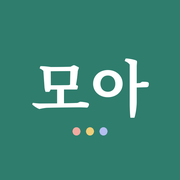
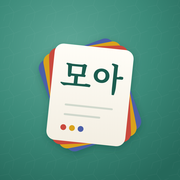
自動チェック・追加単語の昇格・新アイコンを追加
- GitHub Actions でデータを検査し、通ったときだけ Pages に公開
- data/words.js に EXTRA（昇格した追加単語）を追加し、今の追加単語88語を移行
- 記録タブに「追加した単語をデータ用に書き出す」を追加
- 単語カードをモチーフにした新しいアイコン
- service worker を v3 に更新

Claude-Session: https://claude.ai/code/session_01H1yfkYQwmye8AGcc3ry9Gd

diff --git a/data/words.js b/data/words.js
@@ -1104,3 +1104,98 @@ const MULTI = {
   "지원하다":[["취업을 지원하다","就職を支援する"],["회사에 지원하다","会社に応募する"]],
   "과정":[["성장 과정","成長の過程"],["석사 과정","修士課程"]]
 };
+
+// 追加単語（アプリの「単語を追加」で足した単語を、どの端末でも使えるようにここへ移したもの）
+// 1語 = {k:韓国語, j:意味, ex:例文, exj:例文の訳, group:出典, pos:品詞, chunk:セットで覚える形}
+//   group が "過去問①" なら頻出B、"TOPIK中級" なら中級として出題されます。
+// 足すとき：記録タブ →「追加した単語をデータ用に書き出す」で出た行を、最後の ]; の前に貼りつけます。
+const EXTRA = [
+{"k":"식히다","j":"冷ます","ex":"국이 뜨거우니까 좀 식혀서 드세요.","exj":"スープが熱いので少し冷ましてから召し上がってください。","note":"発音は[시키다]。시키다（させる・注文する）と耳では同じに聞こえる。"},
+{"k":"겪다","j":"経験する・（困難を）経る","ex":"많은 사람들이 이사 후에 어려움을 겪는다.","exj":"多くの人が引っ越しのあと苦労を経験する。","group":"TOPIK中級","pos":"v","chunk":"어려움을 겪다＝苦労する"},
+{"k":"늘어나다","j":"増える","ex":"한국을 찾는 외국인 관광객이 늘어나고 있다.","exj":"韓国を訪れる外国人観光客が増えている。","group":"TOPIK中級","pos":"v"},
+{"k":"줄어들다","j":"減る","ex":"아이를 낳는 사람이 점점 줄어들고 있다.","exj":"子どもを産む人がだんだん減っている。","group":"TOPIK中級","pos":"v"},
+{"k":"증가하다","j":"増加する","ex":"혼자 사는 사람이 크게 증가했다.","exj":"一人暮らしの人が大きく増加した。","group":"TOPIK中級","pos":"v"},
+{"k":"감소하다","j":"減少する","ex":"작년보다 쌀 소비량이 감소했다.","exj":"去年より米の消費量が減少した。","group":"TOPIK中級","pos":"v"},
+{"k":"차지하다","j":"占める","ex":"20대가 전체 응답자의 절반을 차지했다.","exj":"20代が回答者全体の半分を占めた。","group":"TOPIK中級","pos":"v","chunk":"절반을 차지하다＝半分を占める"},
+{"k":"해결하다","j":"解決する","ex":"대화로 문제를 해결하는 것이 좋다.","exj":"話し合いで問題を解決するのがよい。","group":"TOPIK中級","pos":"v","chunk":"문제를 해결하다＝問題を解決する"},
+{"k":"극복하다","j":"克服する","ex":"그는 어려운 상황을 잘 극복했다.","exj":"彼は難しい状況をうまく克服した。","group":"TOPIK中級","pos":"v"},
+{"k":"유지하다","j":"維持する・保つ","ex":"건강을 유지하려면 꾸준히 운동해야 한다.","exj":"健康を保つには地道に運動しなければならない。","group":"TOPIK中級","pos":"v","chunk":"건강을 유지하다＝健康を保つ"},
+{"k":"발생하다","j":"発生する・起こる","ex":"겨울에는 화재가 자주 발생한다.","exj":"冬は火事がよく起こる。","group":"TOPIK中級","pos":"v"},
+{"k":"개선하다","j":"改善する","ex":"회사는 근무 환경을 개선하기로 했다.","exj":"会社は職場環境を改善することにした。","group":"TOPIK中級","pos":"v"},
+{"k":"확인하다","j":"確認する","ex":"출발하기 전에 일정을 다시 확인했다.","exj":"出発する前に日程をもう一度確認した。","group":"TOPIK中級","pos":"v"},
+{"k":"제공하다","j":"提供する","ex":"이 호텔은 무료로 아침 식사를 제공한다.","exj":"このホテルは無料で朝食を提供する。","group":"TOPIK中級","pos":"v"},
+{"k":"참여하다","j":"参加する","ex":"많은 시민이 이번 행사에 참여했다.","exj":"多くの市民が今回のイベントに参加した。","group":"TOPIK中級","pos":"v","chunk":"행사에 참여하다＝イベントに参加する"},
+{"k":"미치다","j":"（影響を）及ぼす","ex":"수면 시간은 건강에 큰 영향을 미친다.","exj":"睡眠時間は健康に大きな影響を及ぼす。","group":"TOPIK中級","pos":"v","chunk":"영향을 미치다＝影響を及ぼす"},
+{"k":"노력하다","j":"努力する","ex":"꿈을 이루기 위해 매일 노력한다.","exj":"夢をかなえるために毎日努力する。","group":"TOPIK中級","pos":"v"},
+{"k":"줄이다","j":"減らす","ex":"쓰레기를 줄이기 위해 장바구니를 사용한다.","exj":"ゴミを減らすためにエコバッグを使う。","group":"TOPIK中級","pos":"v"},
+{"k":"늘리다","j":"増やす","ex":"정부는 일자리를 늘리기로 했다.","exj":"政府は働き口を増やすことにした。","group":"TOPIK中級","pos":"v"},
+{"k":"고민하다","j":"悩む","ex":"진로 문제로 오랫동안 고민했다.","exj":"進路のことで長い間悩んだ。","group":"TOPIK中級","pos":"v"},
+{"k":"실천하다","j":"実践する","ex":"계획을 세우는 것보다 실천하는 것이 더 어렵다.","exj":"計画を立てるより実践するほうが難しい。","group":"TOPIK中級","pos":"v"},
+{"k":"인정하다","j":"認める","ex":"그는 자신의 실수를 솔직하게 인정했다.","exj":"彼は自分のミスを素直に認めた。","group":"TOPIK中級","pos":"v","chunk":"실수를 인정하다＝ミスを認める"},
+{"k":"비교하다","j":"比べる・比較する","ex":"다른 사람과 자신을 비교하지 않는 것이 좋다.","exj":"他人と自分を比べないほうがいい。","group":"TOPIK中級","pos":"v"},
+{"k":"선택하다","j":"選ぶ・選択する","ex":"여러 가지 방법 중에서 하나를 선택해야 한다.","exj":"いくつかの方法の中から一つを選ばなければならない。","group":"TOPIK中級","pos":"v"},
+{"k":"적응하다","j":"適応する・慣れる","ex":"새로운 환경에 적응하는 데 시간이 걸린다.","exj":"新しい環境に慣れるのに時間がかかる。","group":"TOPIK中級","pos":"v","chunk":"환경에 적응하다＝環境に慣れる"},
+{"k":"기대하다","j":"期待する","ex":"많은 사람들이 이번 축제를 기대하고 있다.","exj":"多くの人が今回の祭りを楽しみにしている。","group":"TOPIK中級","pos":"v"},
+{"k":"다양하다","j":"多様だ・さまざまだ","ex":"이 시장에서는 다양한 물건을 판다.","exj":"この市場ではさまざまな物を売っている。","group":"TOPIK中級","pos":"a"},
+{"k":"필요하다","j":"必要だ","ex":"외국어를 배우려면 꾸준한 연습이 필요하다.","exj":"外国語を学ぶには地道な練習が必要だ。","group":"TOPIK中級","pos":"a"},
+{"k":"중요하다","j":"重要だ・大切だ","ex":"건강을 위해서는 충분한 수면이 중요하다.","exj":"健康のためには十分な睡眠が大切だ。","group":"TOPIK中級","pos":"a"},
+{"k":"편리하다","j":"便利だ","ex":"지하철은 빠르고 편리하다.","exj":"地下鉄は速くて便利だ。","group":"TOPIK中級","pos":"a"},
+{"k":"불편하다","j":"不便だ","ex":"이 동네는 교통이 좀 불편하다.","exj":"この町は交通が少し不便だ。","group":"TOPIK中級","pos":"a"},
+{"k":"충분하다","j":"十分だ","ex":"시간이 충분하니까 천천히 하세요.","exj":"時間は十分あるのでゆっくりやってください。","group":"TOPIK中級","pos":"a"},
+{"k":"부족하다","j":"足りない・不足している","ex":"요즘 잠이 부족해서 피곤하다.","exj":"最近寝不足で疲れている。","group":"TOPIK中級","pos":"a","chunk":"잠이 부족하다＝寝不足だ"},
+{"k":"심각하다","j":"深刻だ","ex":"환경 오염 문제가 점점 심각해지고 있다.","exj":"環境汚染の問題がだんだん深刻になっている。","group":"TOPIK中級","pos":"a"},
+{"k":"적절하다","j":"適切だ","ex":"상황에 맞는 적절한 표현을 사용해야 한다.","exj":"状況に合った適切な表現を使わなければならない。","group":"TOPIK中級","pos":"a"},
+{"k":"익숙하다","j":"慣れている・なじんでいる","ex":"이제 한국 생활에 익숙해졌다.","exj":"もう韓国の生活に慣れた。","group":"TOPIK中級","pos":"a","chunk":"익숙해지다＝慣れる"},
+{"k":"환경","j":"環境","ex":"아이들은 좋은 환경에서 자라야 한다.","exj":"子どもたちはよい環境で育つべきだ。","group":"TOPIK中級","pos":"n"},
+{"k":"원인","j":"原因","ex":"사고의 원인을 아직 모른다.","exj":"事故の原因はまだわからない。","group":"TOPIK中級","pos":"n"},
+{"k":"결과","j":"結果","ex":"조사 결과에 따르면 커피를 마시는 사람이 늘었다.","exj":"調査結果によると、コーヒーを飲む人が増えた。","group":"TOPIK中級","pos":"n","chunk":"조사 결과에 따르면＝調査結果によると"},
+{"k":"효과","j":"効果","ex":"이 약은 효과가 빨리 나타난다.","exj":"この薬は効果がすぐに現れる。","group":"TOPIK中級","pos":"n","chunk":"효과가 있다＝効果がある"},
+{"k":"방법","j":"方法","ex":"스트레스를 푸는 방법은 사람마다 다르다.","exj":"ストレス解消の方法は人によって違う。","group":"TOPIK中級","pos":"n"},
+{"k":"경우","j":"場合","ex":"비가 오는 경우에는 행사가 취소된다.","exj":"雨の場合はイベントが中止になる。","group":"TOPIK中級","pos":"n","chunk":"～는 경우에는＝〜する場合は"},
+{"k":"영향","j":"影響","ex":"날씨는 사람의 기분에 영향을 준다.","exj":"天気は人の気分に影響を与える。","group":"TOPIK中級","pos":"n","chunk":"영향을 주다／미치다＝影響を与える・及ぼす"},
+{"k":"관심","j":"関心・興味","ex":"요즘 한국 요리에 관심이 많다.","exj":"最近、韓国料理にとても興味がある。","group":"TOPIK中級","pos":"n","chunk":"～에 관심이 있다＝〜に興味がある"},
+{"k":"습관","j":"習慣","ex":"좋은 습관을 만들기는 쉽지 않다.","exj":"よい習慣を作るのは簡単ではない。","group":"TOPIK中級","pos":"n"},
+{"k":"사회","j":"社会","ex":"사회가 빠르게 변하고 있다.","exj":"社会が急速に変わっている。","group":"TOPIK中級","pos":"n"},
+{"k":"경제","j":"経済","ex":"관광 산업은 지역 경제에 도움이 된다.","exj":"観光産業は地域経済の役に立つ。","group":"TOPIK中級","pos":"n"},
+{"k":"정보","j":"情報","ex":"인터넷에서 쉽게 정보를 찾을 수 있다.","exj":"インターネットで簡単に情報を探せる。","group":"TOPIK中級","pos":"n"},
+{"k":"기술","j":"技術","ex":"기술이 발전하면서 생활이 편리해졌다.","exj":"技術が発展して生活が便利になった。","group":"TOPIK中級","pos":"n"},
+{"k":"책임","j":"責任","ex":"자신의 행동에 책임을 져야 한다.","exj":"自分の行動に責任を持たなければならない。","group":"TOPIK中級","pos":"n","chunk":"책임을 지다＝責任を負う"},
+{"k":"태도","j":"態度","ex":"그 직원은 태도가 아주 친절했다.","exj":"その店員は態度がとても親切だった。","group":"TOPIK中級","pos":"n"},
+{"k":"따라서","j":"したがって","ex":"운동은 건강에 좋다. 따라서 매일 하는 것이 좋다.","exj":"運動は健康によい。したがって毎日するのがよい。","group":"TOPIK中級","pos":"adv","chunk":"따라서 ～는 것이 좋다＝したがって〜するのがよい（52の結論に）","adv":"つなぎ"},
+{"k":"반면에","j":"一方で・反面","ex":"도시는 편리하다. 반면에 공기가 좋지 않다.","exj":"都市は便利だ。一方で空気がよくない。","group":"TOPIK中級","pos":"adv","adv":"つなぎ"},
+{"k":"게다가","j":"そのうえ","ex":"이 식당은 맛있다. 게다가 가격도 싸다.","exj":"この食堂はおいしい。そのうえ値段も安い。","group":"TOPIK中級","pos":"adv","adv":"つなぎ"},
+{"k":"비록","j":"たとえ（〜でも）・〜ではあるが","ex":"비록 실패했지만 좋은 경험이 되었다.","exj":"失敗はしたけれど、いい経験になった。","group":"TOPIK中級","pos":"adv","chunk":"비록 ～지만／～더라도＝〜ではあるが・たとえ〜でも","adv":"つなぎ"},
+{"k":"오히려","j":"むしろ・かえって","ex":"약을 먹었는데 오히려 더 아파졌다.","exj":"薬を飲んだのに、かえってもっと痛くなった。","group":"TOPIK中級","pos":"adv","adv":"確かさ"},
+{"k":"점점","j":"だんだん","ex":"날씨가 점점 추워지고 있다.","exj":"天気がだんだん寒くなっている。","group":"TOPIK中級","pos":"adv","chunk":"점점 ～아/어지다＝だんだん〜になる","adv":"時間"},
+{"k":"이미","j":"すでに","ex":"도착했을 때 영화는 이미 시작했다.","exj":"着いたとき、映画はすでに始まっていた。","group":"TOPIK中級","pos":"adv","adv":"時間"},
+{"k":"결국","j":"結局","ex":"열심히 노력해서 결국 시험에 합격했다.","exj":"一生懸命努力して、結局試験に合格した。","group":"TOPIK中級","pos":"adv","adv":"時間"},
+{"k":"특히","j":"特に","ex":"이 가게는 특히 빵이 맛있다.","exj":"この店は特にパンがおいしい。","group":"TOPIK中級","pos":"adv","adv":"程度"},
+{"k":"대부분","j":"ほとんど・大部分","ex":"학생들은 대부분 기숙사에 산다.","exj":"学生たちはほとんどが寮に住んでいる。","group":"TOPIK中級","pos":"adv","adv":"程度"},
+{"k":"번역","j":"翻訳","ex":"이 소설은 일본어로 번역되었다.","exj":"この小説は日本語に翻訳された。","group":"過去問①","pos":"n","chunk":"번역하다＝翻訳する"},
+{"k":"들다","j":"持ち上げる・持つ","ex":"무거운 짐을 혼자 들었어요.","exj":"重い荷物を一人で持ち上げました。","group":"過去問①","pos":"v","note":"마음에 들다（気に入る）、돈이 들다（お金がかかる）も同じ 들다。"},
+{"k":"심하다","j":"ひどい・激しい","ex":"감기가 심해서 회사를 쉬었어요.","exj":"風邪がひどくて会社を休みました。","group":"過去問①","pos":"a"},
+{"k":"어울리다","j":"似合う","ex":"그 옷이 정말 잘 어울려요.","exj":"その服、本当によく似合います。","group":"過去問①","pos":"v","chunk":"～에게 잘 어울리다＝〜によく似合う"},
+{"k":"여기저기","j":"あちこち","ex":"주말에 서울 여기저기를 구경했어요.","exj":"週末にソウルのあちこちを見物しました。","group":"過去問①","pos":"adv","adv":"様子"},
+{"k":"오르다","j":"上がる・登る","ex":"요즘 물가가 많이 올랐어요.","exj":"最近物価がだいぶ上がりました。","group":"過去問①","pos":"v","chunk":"물가가 오르다＝物価が上がる","blank":"올랐어요"},
+{"k":"올라오다","j":"上がってくる","ex":"친구가 2층으로 올라왔어요.","exj":"友達が2階に上がってきました。","group":"過去問①","pos":"v"},
+{"k":"울리다","j":"鳴る・鳴らす","ex":"수업 중에 휴대폰이 울렸어요.","exj":"授業中に携帯が鳴りました。","group":"過去問①","pos":"v","note":"울다（泣く）とは別の単語。울리다は「鳴る・鳴らす・泣かせる」。"},
+{"k":"움직이다","j":"動く・動かす","ex":"다리가 아파서 움직일 수 없어요.","exj":"足が痛くて動けません。","group":"過去問①","pos":"v"},
+{"k":"유리","j":"ガラス","ex":"유리가 깨지지 않게 조심하세요.","exj":"ガラスが割れないように気をつけてください。","group":"過去問①","pos":"n"},
+{"k":"유행","j":"流行","ex":"요즘 이런 옷이 유행이에요.","exj":"最近こういう服が流行っています。","group":"過去問①","pos":"n","chunk":"유행하다＝流行する"},
+{"k":"잃다","j":"失う・なくす","ex":"지하철에서 지갑을 잃어버렸어요.","exj":"地下鉄で財布をなくしてしまいました。","group":"過去問①","pos":"v","chunk":"잃어버리다＝なくしてしまう"},
+{"k":"자르다","j":"切る","ex":"미용실에서 머리를 짧게 잘랐어요.","exj":"美容院で髪を短く切りました。","group":"過去問①","pos":"v","blank":"잘랐어요"},
+{"k":"철","j":"旬・時期","ex":"지금이 딸기 철이에요.","exj":"今がイチゴの旬です。","group":"過去問①","pos":"n"},
+{"k":"촬영하다","j":"撮影する","ex":"이 드라마는 부산에서 촬영했어요.","exj":"このドラマは釜山で撮影しました。","group":"過去問①","pos":"v"},
+{"k":"풀다","j":"解く・ほどく","ex":"시험 문제를 다 풀었어요.","exj":"試験問題を全部解きました。","group":"過去問①","pos":"v","chunk":"스트레스를 풀다＝ストレスを発散する"},
+{"k":"피다","j":"咲く","ex":"봄이 되면 벚꽃이 피어요.","exj":"春になると桜が咲きます。","group":"過去問①","pos":"v","chunk":"꽃이 피다＝花が咲く"},
+{"k":"할인","j":"割引","ex":"이 가게는 학생에게 10% 할인을 해 줘요.","exj":"この店は学生に10%割引してくれます。","group":"過去問①","pos":"n","chunk":"할인하다＝割引する"},
+{"k":"결정하다","j":"決定する・決める","ex":"어느 대학에 갈지 아직 결정하지 못했어요.","exj":"どの大学に行くか、まだ決められていません。","group":"過去問①","pos":"v"},
+{"k":"경기장","j":"競技場","ex":"주말에 경기장에 축구를 보러 갔어요.","exj":"週末、競技場にサッカーを見に行きました。","group":"過去問①","pos":"n"},
+{"k":"국제","j":"国際","ex":"다음 달에 서울에서 국제 회의가 열려요.","exj":"来月ソウルで国際会議が開かれます。","group":"過去問①","pos":"n"},
+{"k":"깜짝","j":"びっくり（して）","ex":"갑자기 큰 소리가 나서 깜짝 놀랐어요.","exj":"急に大きな音がして、びっくりしました。","group":"過去問①","pos":"adv","chunk":"깜짝 놀라다＝びっくりする","adv":"様子"},
+{"k":"꺼내다","j":"取り出す","ex":"가방에서 책을 꺼냈어요.","exj":"かばんから本を取り出しました。","group":"過去問①","pos":"v"},
+{"k":"상승하다","j":"上昇する","ex":"기온이 계속 상승하고 있다.","exj":"気温が上がり続けている。","group":"TOPIK中級","pos":"v","chunk":"물가가 상승하다＝物価が上昇する"},
+{"k":"하락하다","j":"下落する・下がる","ex":"주가가 크게 하락했다.","exj":"株価が大きく下落した。","group":"TOPIK中級","pos":"v","chunk":"가격이 하락하다＝価格が下落する"},
+{"k":"급증하다","j":"急増する","ex":"외국인 관광객이 급증했다.","exj":"外国人観光客が急増した。","group":"TOPIK中級","pos":"v","chunk":"수가 급증하다＝数が急増する"},
+{"k":"급감하다","j":"急減する","ex":"출생아 수가 급감했다.","exj":"出生数が急減した。","group":"TOPIK中級","pos":"v","chunk":"인구가 급감하다＝人口が急減する"},
+];

diff --git a/index.html b/index.html
@@ -9,6 +9,7 @@
 <meta name="theme-color" content="#EEF2F0" media="(prefers-color-scheme: light)">
 <meta name="theme-color" content="#111816" media="(prefers-color-scheme: dark)">
 <link rel="manifest" href="manifest.webmanifest">
+<link rel="icon" type="image/png" sizes="32x32" href="icons/favicon-32.png">
 <link rel="icon" type="image/png" sizes="192x192" href="icons/icon-192.png">
 <link rel="apple-touch-icon" href="icons/apple-touch-icon.png">
 <meta name="apple-mobile-web-app-capable" content="yes">
@@ -237,6 +238,8 @@ button:focus-visible,input:focus-visible,textarea:focus-visible,summary:focus-vi
 .bkfile{display:block;text-align:center;box-sizing:border-box}
 #bk-st:empty{display:none}
 #bk-st.ng{color:var(--ng)}
+#bk-promote{padding:10px;font-size:.92rem}
+#bk-promote .bkn{font-size:.75rem;color:var(--muted);margin-left:6px}
 .bknudge{display:grid;grid-template-columns:minmax(0,1fr) auto;gap:6px 12px;align-items:center;background:color-mix(in srgb,var(--b) 14%,var(--surface));border:1px solid color-mix(in srgb,var(--b) 45%,var(--line));border-radius:14px;padding:12px 14px}
 .bknudge div{display:flex;flex-direction:column;min-width:0}
 .bknudge b{font-size:.9rem}
@@ -836,10 +839,15 @@ const BUILTIN = [];
 const BEGIN_KEYS = new Set(BUILTIN.filter(w=>w.set!=="M" && w.set!=="L").map(w=>w.k));   // 頻出ABC＝初級（〜2級）
 const B_LIST = B_RAW.map(([k,j,ex,exj])=>({k,j,ex,exj,set:"B"}));
 let custom = store.get("kq-custom",[]); // dbが使えない時のみこちら
+// data/words.js の EXTRA（昇格した追加単語）。追加単語と同じ扱いで、アプリからは削除できない
+const BUILTIN_KS = new Set(BUILTIN.map(w=>w.k));
+const EXTRA_W = (typeof EXTRA!=="undefined" && Array.isArray(EXTRA) ? EXTRA : [])
+  .filter(w=>w && w.k && !BUILTIN_KS.has(w.k))
+  .map((w,i)=>Object.assign({id:"x"+i},w,{set:"C",fixed:true}));
 let ALL = [];
 function rebuild(){
-  const ks=new Set(BUILTIN.map(w=>w.k));
-  ALL = BUILTIN.concat(custom.filter(w=>!ks.has(w.k)).map(w=>Object.assign({set:"C"},w)));
+  const ks=new Set([...BUILTIN_KS, ...EXTRA_W.map(w=>w.k)]);
+  ALL = BUILTIN.concat(EXTRA_W, custom.filter(w=>!ks.has(w.k)).map(w=>Object.assign({set:"C"},w)));
 }
 rebuild();
 const setName = s => s==="A"?"頻出A":s==="B"?"頻出B":s==="D"?"頻出C":s==="M"?"中級":s==="L"?"4級":"追加";
@@ -2855,7 +2863,7 @@ function rowHtml(w){
           :`<span class="stk">${Array.from({length:MASTER_N},(_,i)=>`<i class="${i<Math.min(streakOf(w.k),MASTER_N)?"on":""}"></i>`).join("")}</span><span class="mtxt">連続正解 ${Math.min(streakOf(w.k),MASTER_N)} / ${MASTER_N}${countedToday(w.k)?"（今日はカウント済み）":""}</span><button type="button" class="del" data-master="${esc(w.k)}">覚えたにする</button>`}</div>
         ${weak[w.k]?`<p class="wkst"><b>苦手</b>（通算 ${missTot(w.k)}回）　外れるまで<i>${Array.from({length:WEAK_CLEAR_N},(_,i)=>`<span class="${i<clrOf(w.k)?"on":""}"></span>`).join("")}</i> 日を変えて${WEAK_CLEAR_N}回続けて正解</p>`
           :missTot(w.k)?`<p class="wkst">通算 ${missTot(w.k)}回まちがえた${isRepeat(w.k)&&!isDone(w.k)?"・<b>くり返し苦手</b>（覚えたになると外れる）":""}</p>`:""}
-        ${w.set==="C"?`<button type="button" class="del" data-del="${esc(w.id||w.k)}">この単語を削除</button>`:""}
+        ${w.set==="C" && !w.fixed?`<button type="button" class="del" data-del="${esc(w.id||w.k)}">この単語を削除</button>`:""}
       </div>
     </details>`;
   }
@@ -3055,12 +3063,27 @@ function buildBackup(){
   return {app:"moa", v:1, exported:new Date().toISOString(), data};
 }
 function backupText(){ return JSON.stringify(buildBackup()) }
+// 追加単語 → data/words.js（EXTRA）用の行
+const PROMOTE_KEYS=["k","j","ex","exj","group","pos","chunk","adv","note","blank"];
+const promoteList = () => {
+  const fixed=new Set([...BUILTIN_KS, ...EXTRA_W.map(w=>w.k)]);
+  return custom.filter(w=>w && w.k && !fixed.has(w.k)).slice().sort((a,b)=>(Date.parse(a.created)||0)-(Date.parse(b.created)||0));
+};
+function promoteText(list){
+  return list.map(w=>{
+    const o={}; PROMOTE_KEYS.forEach(k=>{ if(w[k]!==undefined && w[k]!=="" && w[k]!==null) o[k]=w[k] });
+    Object.keys(w).forEach(k=>{ if(!(k in o) && !["id","created","set","fixed"].includes(k) && w[k]!=="" && w[k]!=null) o[k]=w[k] });
+    return JSON.stringify(o)+",";
+  }).join("\n");
+}
 function backupHtml(){
   const sync=syncOn();
   return `<section class="lcard" id="bk"><h2 class="lh">データの書き出し・読み込み</h2>
     <p class="hint">追加した単語・苦手・覚えた単語・学習記録・書きの答えをまとめて1つのファイルにします。別の端末や別の場所の모아へ移すときに使います。</p>
     <div class="bkrow"><button class="primary sm" id="bk-dl">ファイルで書き出す</button><button class="ghost" id="bk-copy">テキストでコピー</button></div>
     <textarea id="bk-text" class="bkta" readonly hidden aria-label="書き出したデータ"></textarea>
+    <button class="ghost" id="bk-promote">追加した単語をデータ用に書き出す${promoteList().length?`<small class="bkn">${promoteList().length}語</small>`:""}</button>
+    <textarea id="bk-ptext" class="bkta" readonly hidden aria-label="データ用の単語"></textarea>
     ${sync?`<p class="hint">この画面では同期が有効なため、読み込みは使えません（書き出しのみ）。</p>`:`
     <details class="bkin"><summary>読み込む（今の記録は置きかわります）</summary>
       <div class="bkin-b">
@@ -3092,6 +3115,14 @@ function bindBackup(){
     const txt=backupText(); showText(txt);
     try{ await navigator.clipboard.writeText(txt); markBackup(); bkStatus("コピーしました。メモ帳などに貼って保存してください。") }
     catch(e){ bkStatus("自動でコピーできませんでした。下のテキストを全選択してコピーしてください。",true) }
+  };
+  document.getElementById("bk-promote").onclick=async()=>{
+    const list=promoteList();
+    if(!list.length){ bkStatus("データ用に移していない追加単語はありません。"); return }
+    const txt=promoteText(list), ta=document.getElementById("bk-ptext");
+    ta.hidden=false; ta.value=txt; ta.focus(); ta.select();
+    try{ await navigator.clipboard.writeText(txt); bkStatus(`${list.length}語をコピーしました。data/words.js の EXTRA の最後（ ]; の前）に貼りつけてください。`) }
+    catch(e){ bkStatus(`下の${list.length}語分を全選択してコピーし、data/words.js の EXTRA の最後に貼りつけてください。`,true) }
   };
   const file=document.getElementById("bk-file");
   if(file) file.onchange=async()=>{ const f=file.files[0]; if(!f) return; importBackup(await f.text()); file.value="" };

diff --git a/scripts/check-data.js b/scripts/check-data.js
@@ -1,0 +1,96 @@
+// 모아 データチェック
+// data/*.js と index.html の書き間違い（, の抜け、カッコの閉じ忘れなど）を見つけます。
+// 使い方: node scripts/check-data.js
+const fs = require("fs");
+const path = require("path");
+const vm = require("vm");
+
+const root = path.join(__dirname, "..");
+const DATA = ["data/words.js", "data/grammar.js", "data/writing.js"];
+const errors = [];
+const warns = [];
+const err = m => errors.push(m);
+const warn = m => warns.push(m);
+
+// 1) 各ファイルが JavaScript として正しく読めるか
+const sources = {};
+for (const f of DATA) {
+  const src = fs.readFileSync(path.join(root, f), "utf8");
+  sources[f] = src;
+  try { new vm.Script(src, { filename: f }); }
+  catch (e) {
+    const where = (e.stack || "").split("\n")[0];
+    err(`${f} が読めません（${e.message}）\n    場所: ${where}\n    → 前の行の最後の , や、[ ] { } " の閉じ忘れを確認してください`);
+  }
+}
+
+// 2) 中身の形
+let D = null;
+if (!errors.length) {
+  try {
+    const ctx = vm.createContext({});
+    const names = ["A_RAW", "B_RAW", "C_RAW", "M_RAW", "L_RAW", "EXTRA", "NOTES", "GRAMMAR", "SHEET", "WRITE", "P53", "P54"];
+    const tail = `\n;({${names.map(n => `${n}: typeof ${n}==="undefined"?undefined:${n}`).join(",")}})`;
+    D = vm.runInContext(DATA.map(f => sources[f]).join("\n;\n") + tail, ctx, { filename: "data" });
+  } catch (e) { err(`データを実行できませんでした（${e.message}）`); }
+}
+
+if (D) {
+  const isStr = v => typeof v === "string" && v.trim() !== "";
+  const builtin = new Set();
+  for (const set of ["A_RAW", "B_RAW", "C_RAW", "M_RAW", "L_RAW"]) {
+    const rows = D[set];
+    if (!Array.isArray(rows)) { err(`${set} がありません（data/words.js）`); continue; }
+    rows.forEach((r, i) => {
+      if (!Array.isArray(r)) return err(`${set} の ${i + 1} 番目が ["韓国語","意味","例文","訳"] の形になっていません`);
+      if (!isStr(r[0]) || !isStr(r[1])) err(`${set} の ${i + 1} 番目（${JSON.stringify(r[0])}）: 韓国語と意味は必須です`);
+      if (r.length < 4) warn(`${set} の ${i + 1} 番目（${r[0]}）: 例文か訳が足りません`);
+      builtin.add(r[0]);
+    });
+  }
+  if (D.EXTRA !== undefined) {
+    if (!Array.isArray(D.EXTRA)) err("EXTRA が配列（[ ... ]）になっていません");
+    else {
+      const seen = new Set();
+      D.EXTRA.forEach((w, i) => {
+        if (!w || typeof w !== "object" || Array.isArray(w)) return err(`EXTRA の ${i + 1} 番目が {k:…, j:…} の形になっていません`);
+        if (!isStr(w.k) || !isStr(w.j)) err(`EXTRA の ${i + 1} 番目（${JSON.stringify(w.k)}）: k（韓国語）と j（意味）は必須です`);
+        if (seen.has(w.k)) warn(`EXTRA に「${w.k}」が2回あります（後のほうは使われません）`);
+        if (builtin.has(w.k)) warn(`EXTRA の「${w.k}」はもともとの単語と重なっています（使われません）`);
+        seen.add(w.k);
+      });
+    }
+  }
+  if (!Array.isArray(D.GRAMMAR) || !D.GRAMMAR.length) err("GRAMMAR がありません（data/grammar.js）");
+  if (!Array.isArray(D.WRITE)) err("WRITE がありません（data/writing.js）");
+  else {
+    const ids = new Set();
+    D.WRITE.forEach((p, i) => { if (!p || !p.id) err(`WRITE の ${i + 1} 番目に id がありません`); else if (ids.has(p.id)) err(`WRITE の id「${p.id}」が重なっています`); else ids.add(p.id); });
+  }
+  for (const n of ["P53", "P54"]) {
+    if (!Array.isArray(D[n])) { err(`${n} がありません（data/writing.js）`); continue; }
+    const ids = new Set();
+    D[n].forEach((p, i) => { if (!p || !p.id) err(`${n} の ${i + 1} 番目に id がありません`); else if (ids.has(p.id)) err(`${n} の id「${p.id}」が重なっています`); else ids.add(p.id); });
+  }
+}
+
+// 3) index.html の中のスクリプト
+const html = fs.readFileSync(path.join(root, "index.html"), "utf8");
+[...html.matchAll(/<script>([\s\S]*?)<\/script>/g)].forEach((m, i) => {
+  try { new vm.Script(m[1], { filename: `index.html のスクリプト${i + 1}` }); }
+  catch (e) { err(`index.html のスクリプト${i + 1} が読めません（${e.message}）`); }
+});
+for (const f of DATA) if (!html.includes(`src="${f}"`)) err(`index.html が ${f} を読み込んでいません`);
+
+// 結果
+if (D) {
+  const n = ["A_RAW", "B_RAW", "C_RAW", "M_RAW", "L_RAW"].reduce((s, k) => s + (Array.isArray(D[k]) ? D[k].length : 0), 0);
+  console.log(`単語 ${n} 行 ＋ 追加単語 ${Array.isArray(D.EXTRA) ? D.EXTRA.length : 0} 語 / 文法 ${D.GRAMMAR?.length ?? 0} 項目 / 書き ${(D.WRITE?.length ?? 0) + (D.P53?.length ?? 0) + (D.P54?.length ?? 0)} 問`);
+}
+warns.forEach(w => console.log("注意: " + w));
+if (errors.length) {
+  errors.forEach(e => console.error("エラー: " + e));
+  console.error(`\n${errors.length} 件のエラーがあります。直すまでサイトは更新されません。`);
+  process.exit(1);
+}
+console.log("OK: データに問題はありません");

diff --git a/icons/icon-source.html b/icons/icon-source.html
@@ -1,0 +1,40 @@
+<!doctype html><html><head><meta charset="utf-8"><style>
+html,body{margin:0;background:transparent}
+svg{display:block}
+</style></head><body>
+<svg id="ic" width="1024" height="1024" viewBox="0 0 1024 1024" xmlns="http://www.w3.org/2000/svg">
+  <defs>
+    <radialGradient id="bg" cx="38%" cy="28%" r="85%">
+      <stop offset="0" stop-color="#5FA898"/>
+      <stop offset=".55" stop-color="#3B8A79"/>
+      <stop offset="1" stop-color="#25685A"/>
+    </radialGradient>
+    <linearGradient id="paper" x1="0" y1="0" x2="0" y2="1">
+      <stop offset="0" stop-color="#FFFDF7"/>
+      <stop offset="1" stop-color="#F3EEE2"/>
+    </linearGradient>
+    <filter id="sh" x="-20%" y="-20%" width="140%" height="150%">
+      <feDropShadow dx="0" dy="14" stdDeviation="18" flood-color="#0E3A31" flood-opacity=".35"/>
+    </filter>
+    <pattern id="crackle" width="120" height="120" patternUnits="userSpaceOnUse">
+      <path d="M0 40 L50 30 L80 70 L120 55 M50 30 L60 0 M80 70 L70 120 M20 120 L30 85 L80 70" fill="none" stroke="#ffffff" stroke-opacity=".035" stroke-width="3"/>
+    </pattern>
+  </defs>
+  <rect width="1024" height="1024" fill="url(#bg)"/>
+  <rect width="1024" height="1024" fill="url(#crackle)"/>
+  <!-- fanned cards: A (vermilion), B (mustard), 追加 (indigo) -->
+  <g transform="translate(512 540) scale(1.1)" filter="url(#sh)">
+    <g transform="rotate(-20)"><rect x="-205" y="-250" width="410" height="500" rx="46" fill="#4B5FA8"/></g>
+    <g transform="rotate(-11)"><rect x="-205" y="-250" width="410" height="500" rx="46" fill="#D9A21E"/></g>
+    <g transform="rotate(-2)"><rect x="-205" y="-250" width="410" height="500" rx="46" fill="#C9483C"/></g>
+    <g transform="rotate(6)">
+      <rect x="-205" y="-250" width="410" height="500" rx="46" fill="url(#paper)"/>
+      <text x="0" y="-30" text-anchor="middle" font-family="Noto Serif CJK KR" font-weight="700" font-size="168" fill="#1F5C4F" letter-spacing="0">모아</text>
+      <line x1="-120" y1="62" x2="120" y2="62" stroke="#1F5C4F" stroke-opacity=".18" stroke-width="10" stroke-linecap="round"/>
+      <line x1="-120" y1="112" x2="60" y2="112" stroke="#1F5C4F" stroke-opacity=".18" stroke-width="10" stroke-linecap="round"/>
+      <circle cx="-120" cy="180" r="15" fill="#C9483C"/>
+      <circle cx="-75" cy="180" r="15" fill="#D9A21E"/>
+      <circle cx="-30" cy="180" r="15" fill="#4B5FA8"/>
+    </g>
+  </g>
+</svg></body></html>

diff --git a/sw.js b/sw.js
@@ -2,7 +2,7 @@
 // 自分のサイトのファイル（本体・データ）はネット優先：更新をすぐ反映し、オフラインのときだけ保存版を使う。
 // Google Fonts はキャッシュ優先。
 // ファイル構成を変えたときは VERSION を上げると古いキャッシュが消えます。
-const VERSION = "moa-v2";
+const VERSION = "moa-v3";
 const SHELL = [
   "./", "./index.html", "./manifest.webmanifest",
   "./data/words.js", "./data/grammar.js", "./data/writing.js",

diff --git a/README.md b/README.md
@@ -10,9 +10,8 @@ TOPIK（韓国語能力試験）向けの、自分用の学習アプリです。
 ## GitHub Pages で公開する
 
 1. このフォルダの中身をリポジトリの一番上に置いて push する
-2. リポジトリの **Settings → Pages** を開く
-3. **Source** を「Deploy from a branch」、ブランチを `main`、フォルダを `/ (root)` にして保存
-4. 1〜2分後に `https://<ユーザー名>.github.io/<リポジトリ名>/` で開けます
+2. リポジトリの **Settings → Pages** で、**Source** を「**GitHub Actions**」にする
+3. Actions タブで「チェックして公開」が終わると、`https://<ユーザー名>.github.io/<リポジトリ名>/` で開けます
 
 ## 記録のバックアップと引っ越し
 
@@ -36,13 +35,28 @@ TOPIK（韓国語能力試験）向けの、自分用の学習アプリです。
 
 | ファイル | 中身 |
 | --- | --- |
-| `data/words.js` | 単語（`A_RAW` 頻出A / `B_RAW` 頻出B / `C_RAW` 追加 / `M_RAW` 中級 / `L_RAW` 4級）、まぎらわしい単語・副詞・漢字語・多義語 |
+| `data/words.js` | 単語（`A_RAW` 頻出A / `B_RAW` 頻出B / `C_RAW` 頻出C / `M_RAW` 中級 / `L_RAW` 4級）、`EXTRA` 追加単語、まぎらわしい単語・副詞・漢字語・多義語 |
 | `data/grammar.js` | 文法項目と文法シート |
 | `data/writing.js` | 書き 51〜54番の問題と模範解答 |
 
-単語は1行1語で `["韓国語","意味","例文","例文の訳"],` の形です。前の行の最後に `,` があるか確認してください。保存（commit）すると1〜2分で反映されます。
+単語は1行1語で `["韓国語","意味","例文","例文の訳"],` の形です。保存（commit）すると、自動チェックのあと1〜2分で反映されます。
 
-アプリの「単語を追加」から足した単語は、このファイルではなくブラウザ側の記録に入ります。
+### アプリで追加した単語をデータに移す
+
+アプリの「単語を追加」で足した単語は、その端末のブラウザにだけ入ります。どの端末でも使えるようにするには：
+
+1. **記録** タブ →「追加した単語をデータ用に書き出す」（まだ移していない単語だけがコピーされます）
+2. `data/words.js` のいちばん下にある `EXTRA` の最後（`];` の前）に貼りつけて保存
+
+`EXTRA` の単語は、学習記録（覚えた・苦手など）もそのまま引き継がれます。アプリからは削除できないので、消すときはファイルから行を消してください。
+
+## 自動チェック
+
+push するたびに GitHub Actions が `scripts/check-data.js` でデータを検査し、問題がなければサイトを更新します。`,` の抜けやカッコの閉じ忘れがあるとサイトは更新されず、GitHubからメールが届きます（Actions タブでエラーの場所が見られます）。
+
+この仕組みを使うには、**Settings → Pages → Source** を「**GitHub Actions**」にしておきます。
+
+手元で確かめるときは `node scripts/check-data.js` です。
 
 ## アーティファクト版とのちがい
 
@@ -59,9 +73,11 @@ TOPIK（韓国語能力試験）向けの、自分用の学習アプリです。
 ```
 index.html            アプリ本体
 data/                 単語・文法・書きのデータ
+scripts/check-data.js データの自動チェック
+.github/workflows/    チェックして公開する GitHub Actions
 manifest.webmanifest  ホーム画面に追加したときの名前・アイコン
 sw.js                 オフライン用（ファイル構成を変えたら VERSION を上げる）
-icons/                アイコン
+icons/                アイコン（icon-source.html が元のデザイン）
 .nojekyll             GitHub Pages でそのまま配信するための空ファイル
 ```
 
